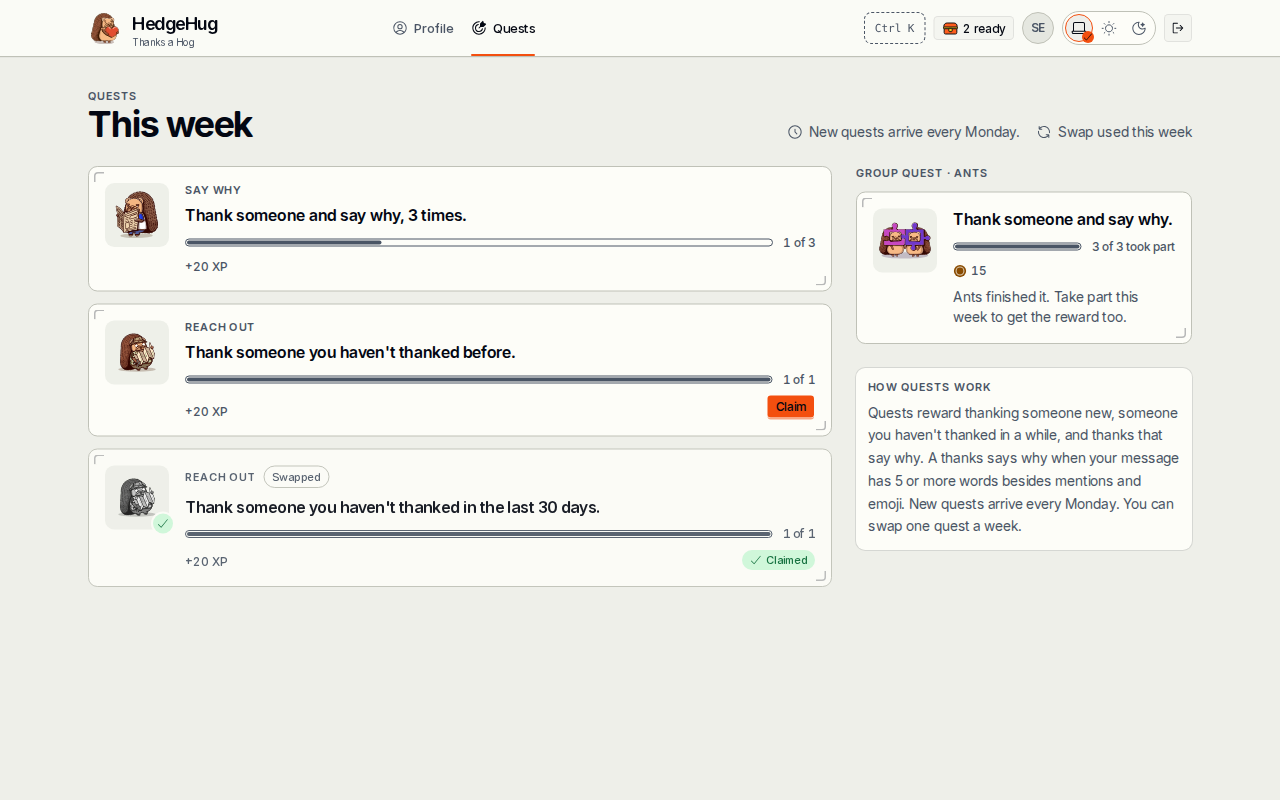
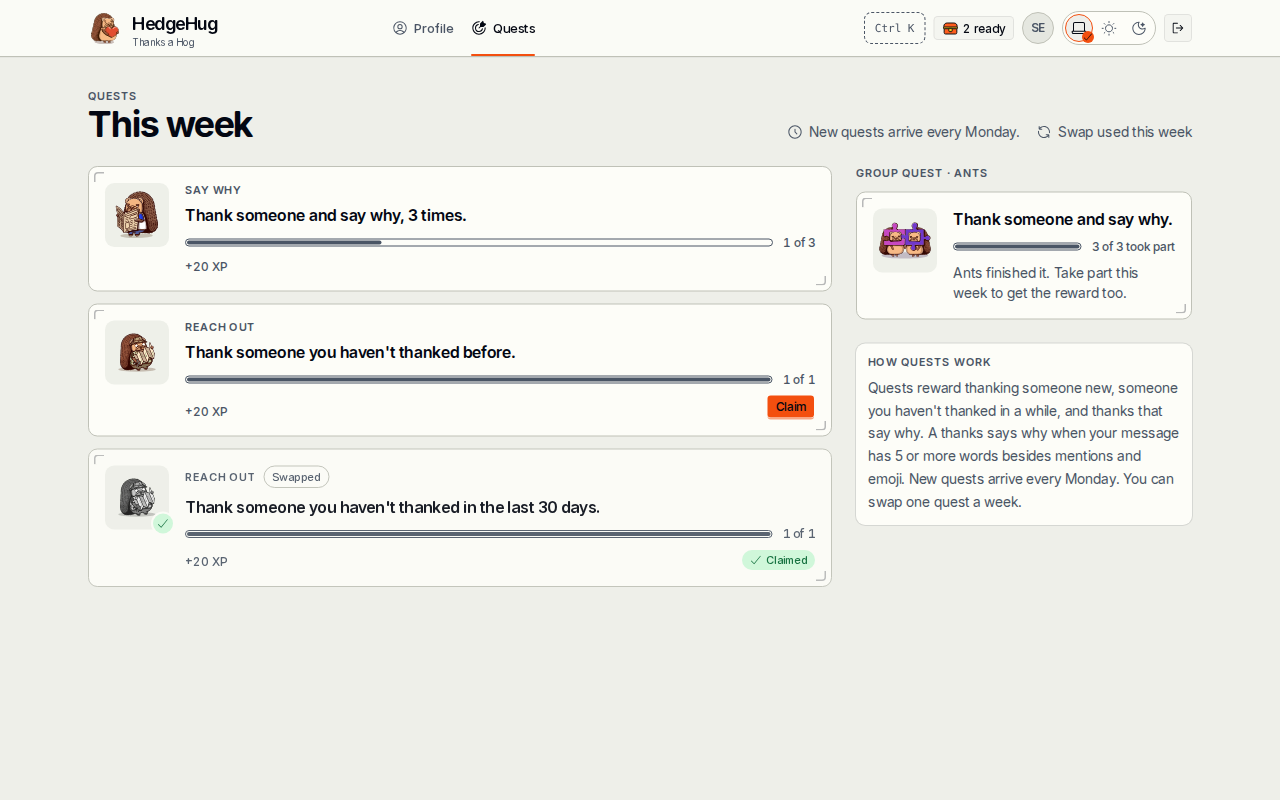
Retake #286's proof after the spot check

Changed region(s): [[0.6562, 0.4375, 0.9375, 0.6875], [0.7188, 0.3125, 0.9062, 0.4062]]

diff --git a/website/proof/group-quest/README.md b/website/proof/group-quest/README.md
@@ -21,3 +21,7 @@ E's helper faces and names are left out on purpose: P82 keeps the group quest to
 - **Focus visibility:** `?quest=group` puts a visible ring on the card's goal (the 390 px shots). `?crate=group` focuses Claim (test `#435: ?crate={feature} lands on the page's ready crate`).
 - **Reduced motion:** the reveal shows its end state at once. Covered by the `WS344 WS348` tests, which run under `prefers-reduced-motion: reduce`, because the preview browser can't emulate it.
 - **Screen reader wording:** the progressbar is named "{n} of {target} took part", the region "Group quest · {group}", and the live region says "You opened your group quest reward. You earned 15 coins." (read from the reveal shot's accessibility tree). axe passes in light and dark (`WS339`).
+
+## Design spot check (Fable 5.1)
+
+Five findings, nothing blocking. Fixed in `fc8b3ba0`: one pill row on the claimed home row (1), no reward shown to a member who missed the group quest (2), an even separator on an earlier group crate (3), and "took part" on the home row's count (5). Left for a follow-up: a kind label on the group card (4), because `groupQuestOf` carries no quest kind. The three affected shots above are retaken from `fc8b3ba0`.
